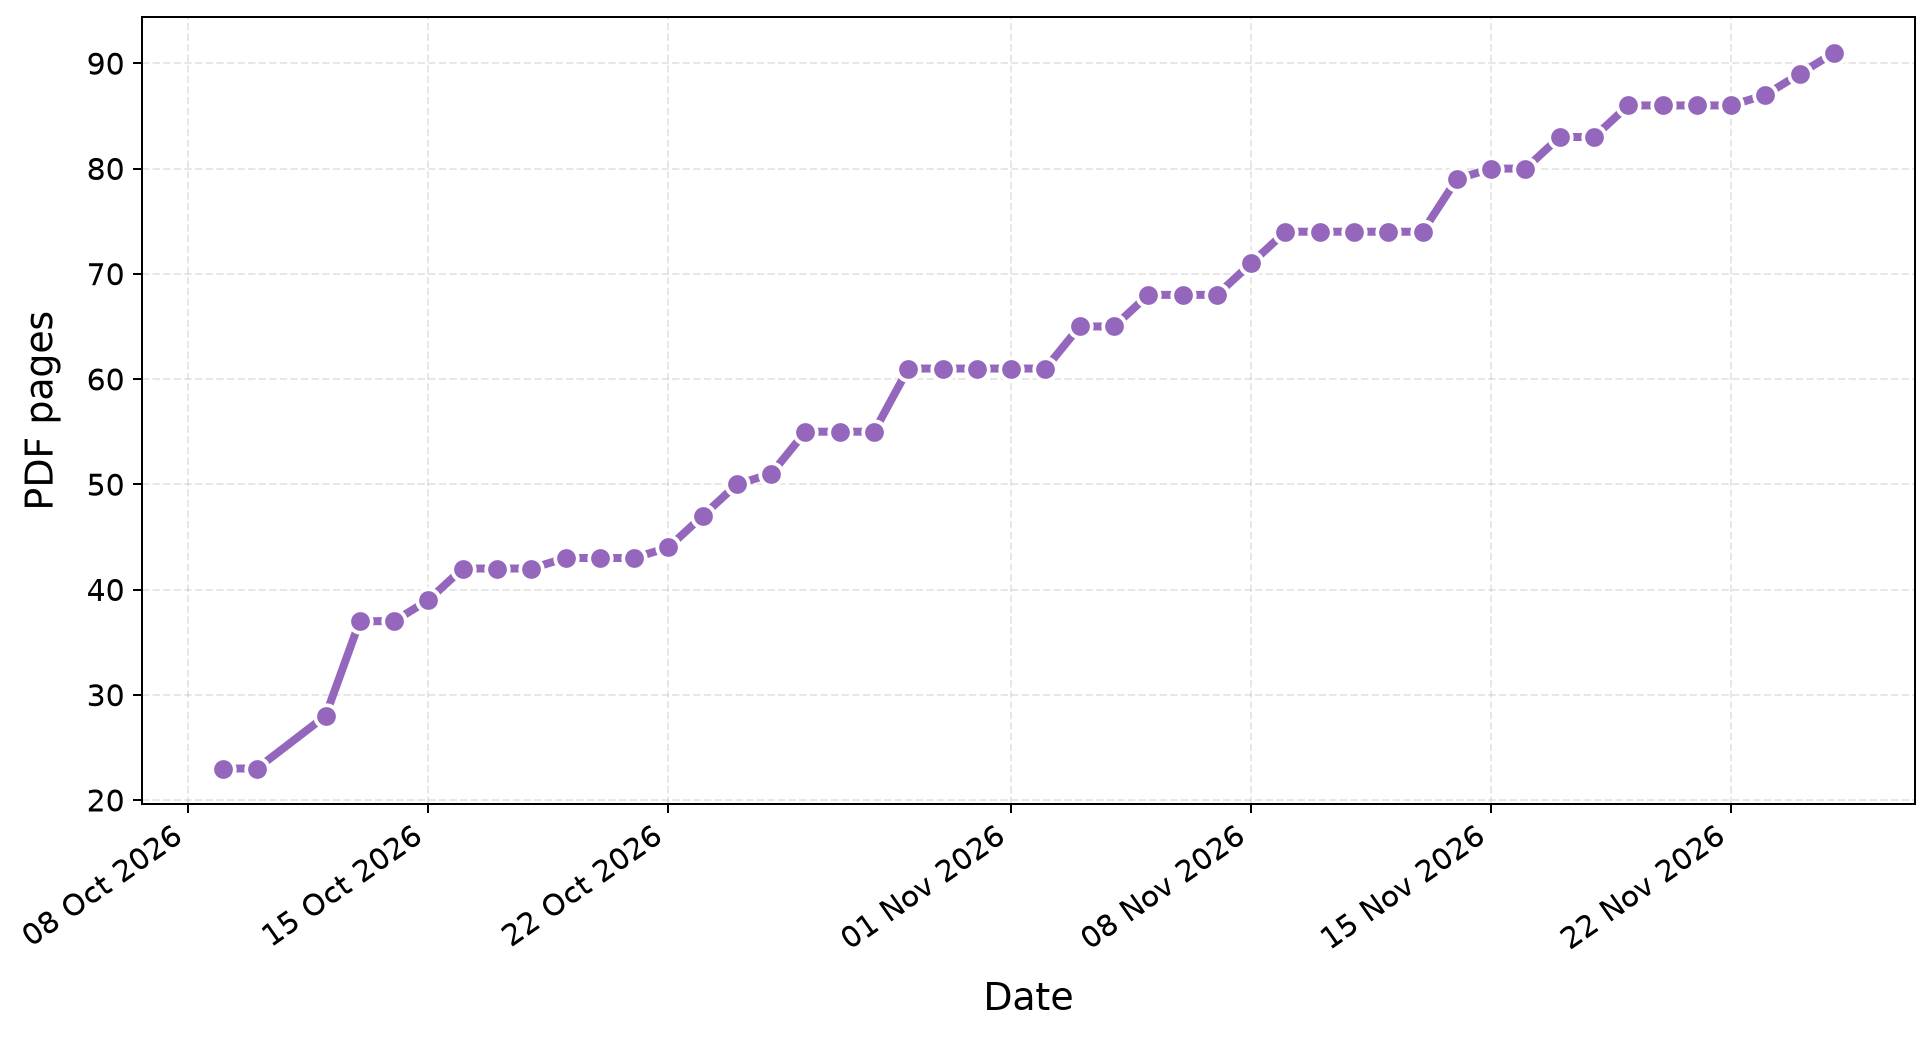
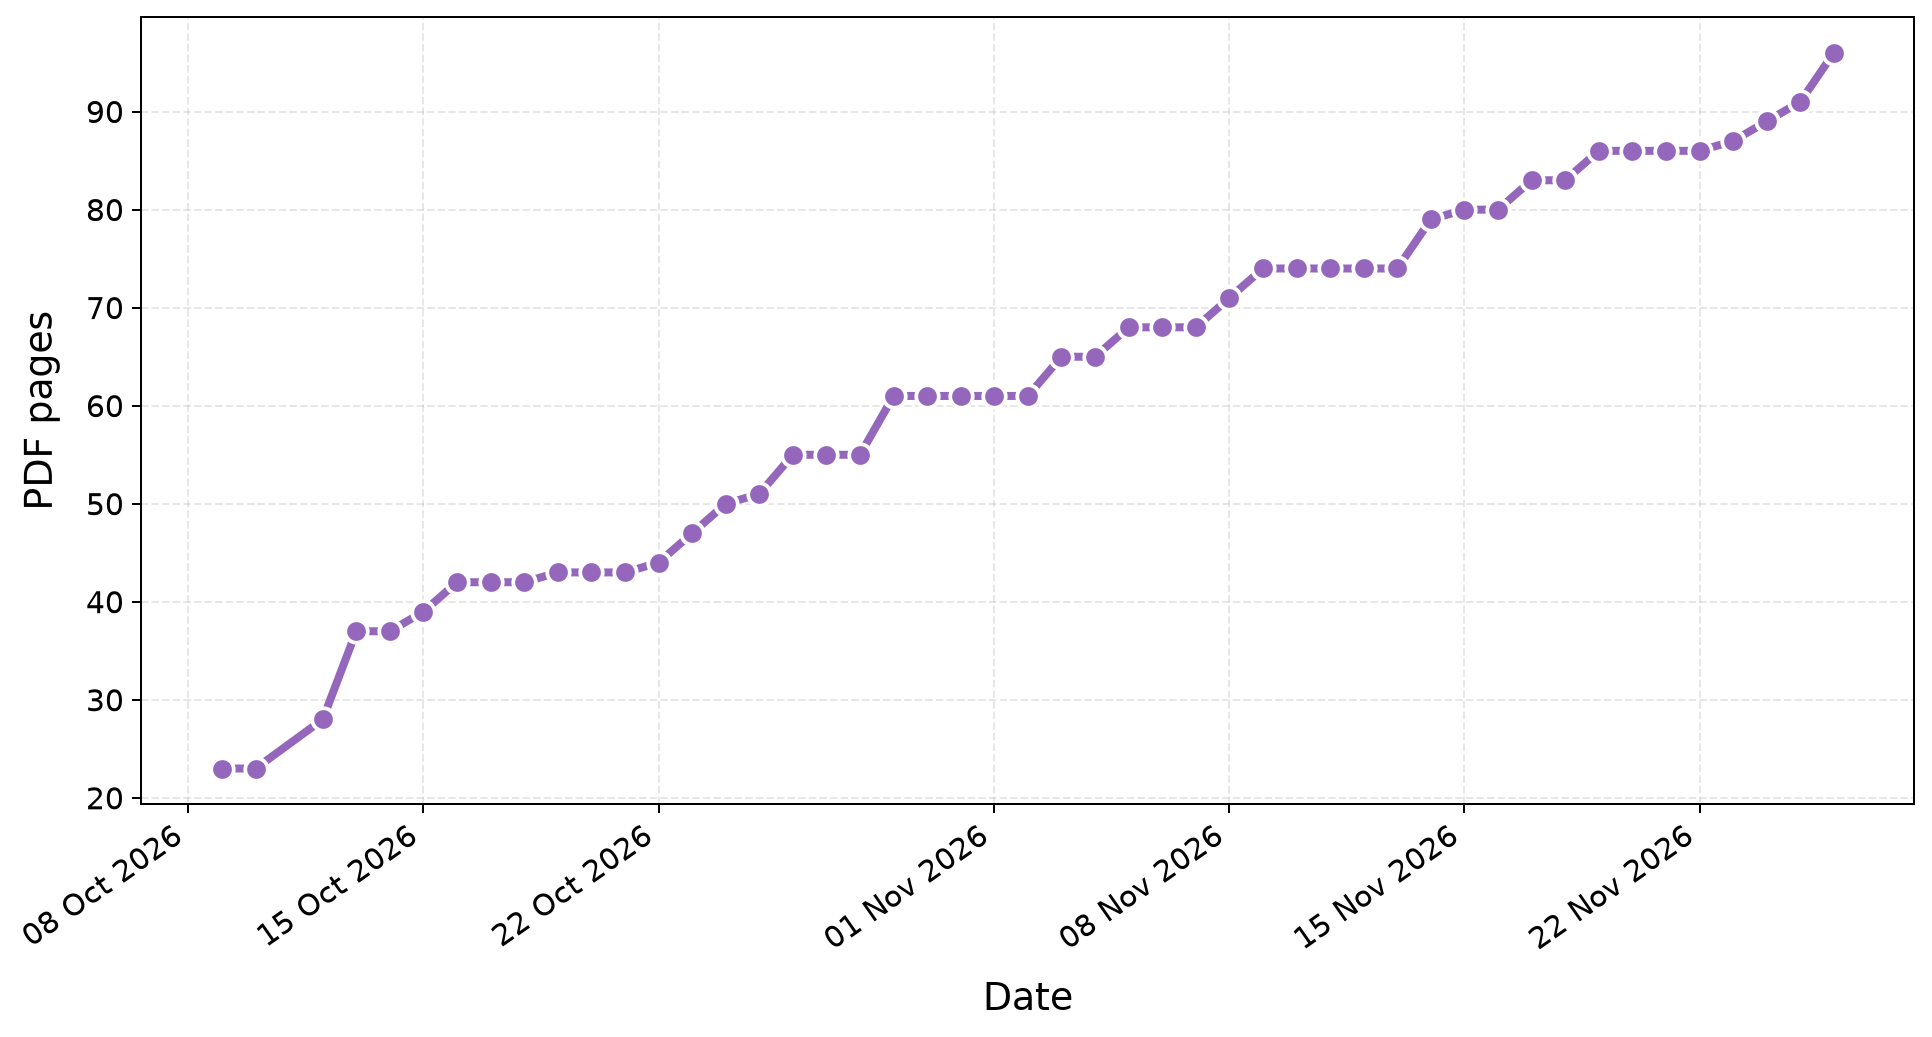
Update thesis progress dashboard

diff --git a/index.html b/index.html
@@ -12,7 +12,7 @@
     <p class="eyebrow">THESIS WRITING LOG</p>
     <h1>Thesis Progress</h1>
     <p>A visual overview of writing progress over time.</p>
-    <p class="updated">Last updated: 2026-11-25 04:04 CET</p>
+    <p class="updated">Last updated: 2026-11-26 03:59 CET</p>
   </header>
 
   <main>
@@ -28,30 +28,30 @@
 
         <article class="summary-card">
           <p class="summary-label">Total words</p>
-          <p class="summary-total">13,330</p>
+          <p class="summary-total">14,313</p>
           <p class="summary-change"
              style="color: #16A34A;">
-            +965 this week
+            +1,948 this week
           </p>
         </article>
         
 
         <article class="summary-card">
           <p class="summary-label">Total lines</p>
-          <p class="summary-total">1,524</p>
+          <p class="summary-total">1,539</p>
           <p class="summary-change"
              style="color: #16A34A;">
-            +66 this week
+            +81 this week
           </p>
         </article>
         
 
         <article class="summary-card">
           <p class="summary-label">Total pages</p>
-          <p class="summary-total">91</p>
+          <p class="summary-total">96</p>
           <p class="summary-change"
              style="color: #16A34A;">
-            +5 this week
+            +10 this week
           </p>
         </article>
         
@@ -88,20 +88,20 @@
 
         <article class="summary-card">
           <p class="summary-label">Total sections</p>
-          <p class="summary-total">116</p>
+          <p class="summary-total">117</p>
           <p class="summary-change"
              style="color: #16A34A;">
-            +3 this week
+            +4 this week
           </p>
         </article>
         
 
         <article class="summary-card">
           <p class="summary-label">Total citations</p>
-          <p class="summary-total">69</p>
+          <p class="summary-total">86</p>
           <p class="summary-change"
              style="color: #16A34A;">
-            +8 this week
+            +25 this week
           </p>
         </article>
         
